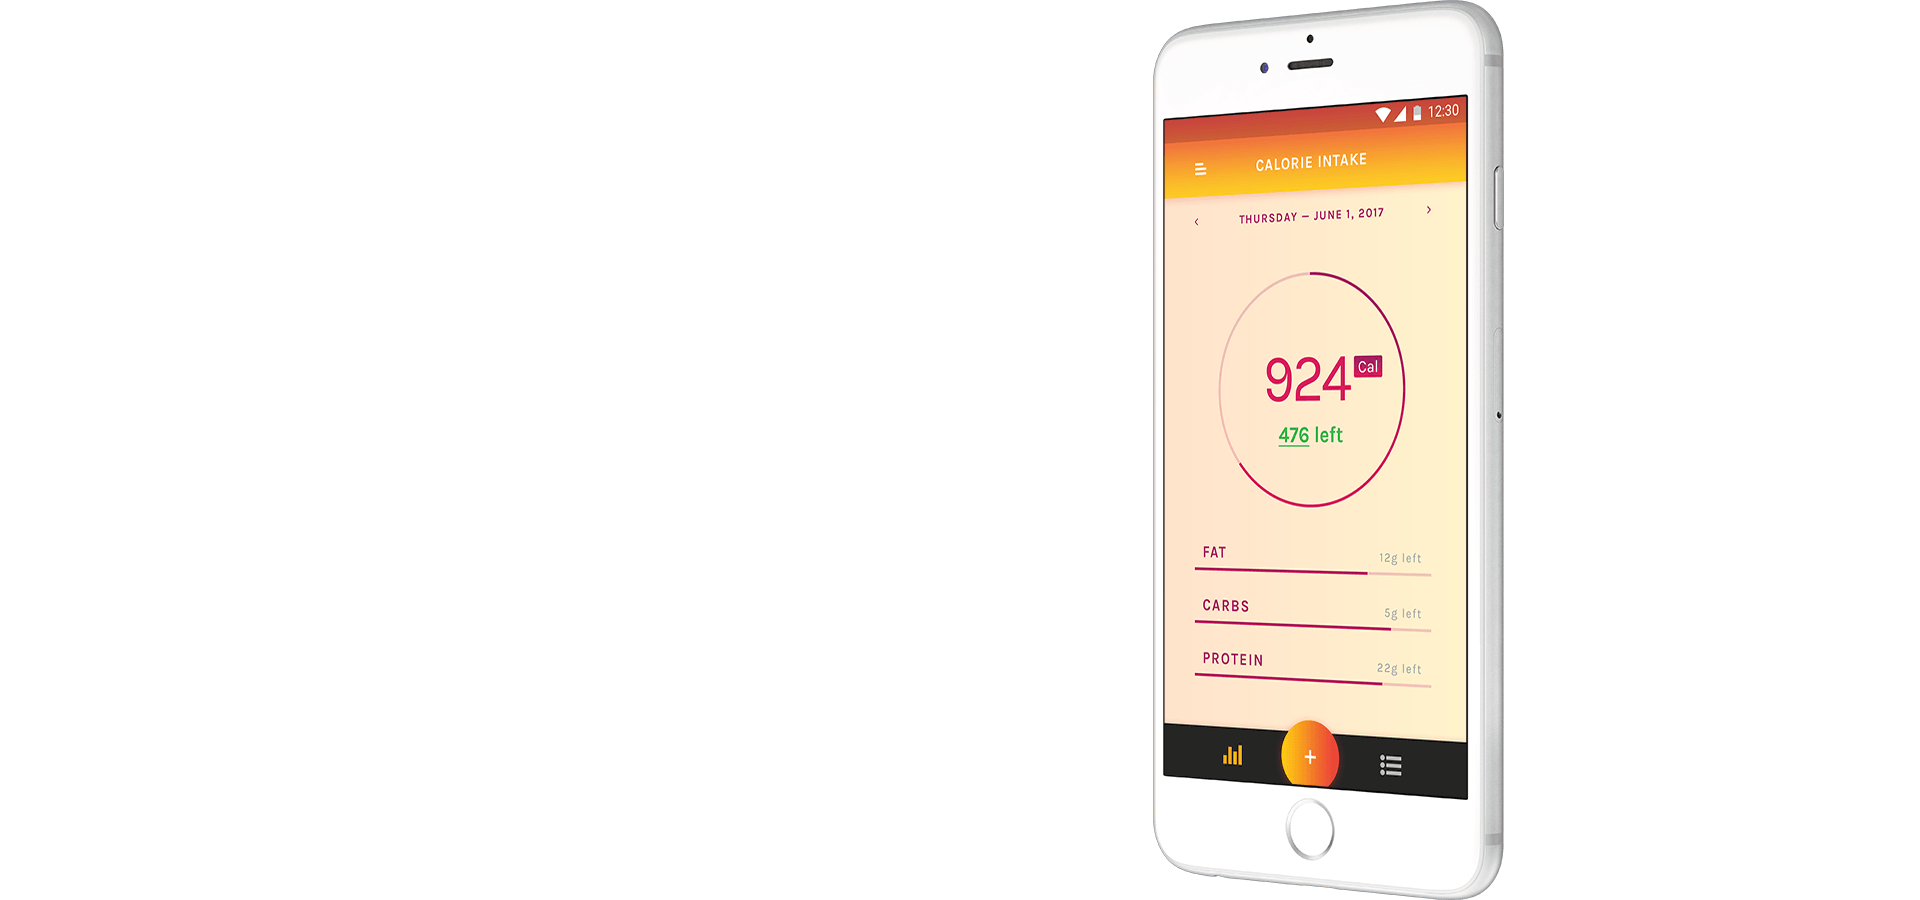
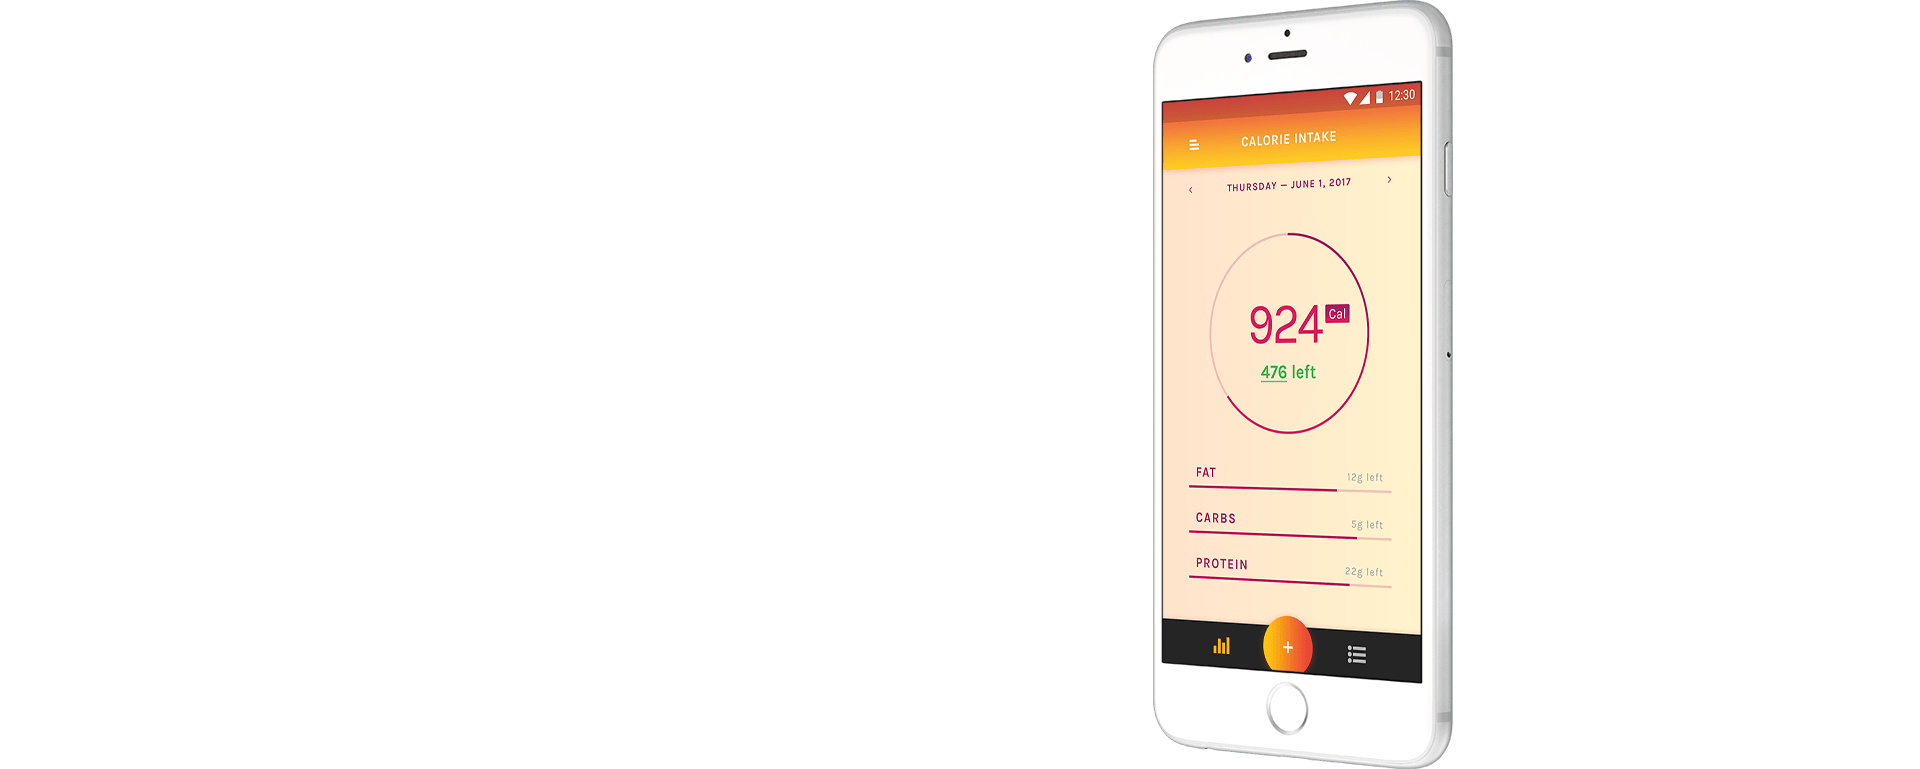
add all sections and footer

diff --git a/app/css/styles.min.css b/app/css/styles.min.css
@@ -1,2 +1,2 @@
-@import url("https://fonts.googleapis.com/icon?family=Material+Icons");@font-face{font-family:Circular;src:url(../fonts/circular/Circular-Book.eot);src:url(../fonts/circular/Circular-Book.eot?#iefix) format("embedded-opentype"),url(../fonts/circular/Circular-Book.woff) format("woff"),url(../fonts/circular/Circular-Book.ttf) format("truetype");font-style:normal;font-weight:400}@font-face{font-family:Circular;src:url(../fonts/circular/Circular-Medium.eot);src:url(../fonts/circular/Circular-Medium.eot?#iefix) format("embedded-opentype"),url(../fonts/circular/Circular-Medium.woff) format("woff"),url(../fonts/circular/Circular-Medium.ttf) format("truetype");font-style:normal;font-weight:500}@font-face{font-family:Circular;src:url(../fonts/circular/Circular-Bold.eot);src:url(../fonts/circular/Circular-Bold.eot?#iefix) format("embedded-opentype"),url(../fonts/circular/Circular-Bold.woff) format("woff"),url(../fonts/circular/Circular-Bold.ttf) format("truetype");font-style:normal;font-weight:700}@font-face{font-family:Circular;src:url(../fonts/circular/Circular-Black.eot);src:url(../fonts/circular/Circular-Black.eot?#iefix) format("embedded-opentype"),url(../fonts/circular/Circular-Black.woff) format("woff"),url(../fonts/circular/Circular-Black.ttf) format("truetype");font-style:normal;font-weight:900}@media (-webkit-min-device-pixel-ratio:1.5){.hide-on-ipad-pro{display:none!important}}html{font-family:Circular,Karla,-apple-system,BlinkMacSystemFont,Segoe UI,Roboto,Oxygen-Sans,Ubuntu,Cantarell,Helvetica Neue,sans-serif}::-moz-selection{background:#fdc812}::selection{background:#fdc812}.body__wrapper{position:static;left:0;top:0;width:100%;height:100%;overflow:hidden}.scroll__wrapper{position:relative;width:100%;height:auto}.scroll__wrapper:before{left:0}.scroll__wrapper:after,.scroll__wrapper:before{position:absolute;content:"";top:0;height:100%;width:24px;background:#fff;z-index:3}.scroll__wrapper:after{right:0}#logo-container{display:inline-block;margin-left:15px;letter-spacing:1px}.svg_container{display:inline-block;position:relative;width:60px;vertical-align:middle}nav{background:transparent;box-shadow:none}nav ul a{color:#333;text-transform:uppercase;font-weight:100;font-size:.8rem;letter-spacing:.08rem}nav ul a:hover{background-color:inherit}nav ul .material-icons{font-size:inherit;line-height:inherit;margin-left:-5px;cursor:pointer}nav .logo{background:url(../images/logo.svg) no-repeat 50%;width:15rem;height:4.5rem;margin-top:-2.25rem;position:absolute;left:0;top:50%}.side-nav{width:100%;background-color:rgba(0,0,0,.95)}.side-nav li a{color:#fff;font-size:2rem}.side-nav li>span{color:#fdc812;display:block;font-size:2.5rem;font-weight:500;height:100px;line-height:48px;padding:32px}#sidenav-overlay{display:none}.btn{color:#000;border:2px solid #000;line-height:34px;font-size:.8rem;box-shadow:none}.btn:hover{box-shadow:none;color:#fff;border:2px solid transparent;background-color:#000}.btn.btn--grad{background:#fdc812;background:linear-gradient(90deg,#fdc812,#e93f3a);border:none;line-height:38px;font-size:.9em;font-weight:500;color:#fff}.btn.btn--grad.btn--shadow{box-shadow:0 5px 30px 0 rgba(233,63,57,.5)}.btn.btn--grad:hover{box-shadow:0 2px 6px 0 rgba(233,63,57,.5)}.nav__link{color:#000;text-transform:uppercase;letter-spacing:.08em;line-height:1.5rem;font-weight:400;display:inline-block;position:relative;padding:0;margin-right:1rem;transition:all .25s cubic-bezier(.4,.25,.3,1),color 125ms cubic-bezier(.4,.25,.3,1)}.nav__link+.nav__link{margin-left:3.25rem}.nav__link:before{content:"";position:absolute;bottom:-10%;left:50%;width:0;height:2px;background-color:#fdc812;-webkit-transform:translateX(-50%);transform:translateX(-50%);transition:width 175ms cubic-bezier(.4,.25,.3,1)}.nav__link.active:before{width:20%}.nav__link:hover{color:#000}.nav__link:hover:before{width:100%}.hero__bg--fullscreen{background:#e0e4e9;background-image:linear-gradient(#e0e4e9,#fff);background-repeat:no-repeat;background-attachment:fixed;background-position:top;background-size:cover;height:calc(100vh - 110px)}.hero__bg--fullscreen .hero__container{padding-top:2em}.hero__bg--fullscreen .hero__container .btn{margin-top:1em}.hero--text{text-align:center}.hero__text--title{color:#333;font-size:1.5em}.hero__text--title strong{font-size:1.4em;font-weight:700;margin-bottom:.8rem;display:block}.hero__text--subtitle{color:#8a8e92;font-size:.9em}.hero__text--body{position:relative;padding-top:20em}.hero__image--bg{pointer-events:none;background-image:url(../images/screens/screen-bg.png);background-repeat:no-repeat;background-attachment:fixed;background-position:top;background-size:cover;height:100vh;position:absolute;width:100%;top:0;left:0;z-index:0}.hero__image--main{position:relative;max-width:100%;height:100%;z-index:2}.hero__image--main img{padding:0 5em;width:100%}.section__divider{background:linear-gradient(#171717,#000);box-shadow:0 -1px 30px 0 rgba(0,0,0,.9);position:relative;z-index:1}.features__text--container{position:relative;height:400px}.features__text--body{position:absolute;top:50%;-webkit-transform:translateY(-50%);transform:translateY(-50%)}
+@import url("https://fonts.googleapis.com/icon?family=Material+Icons");@font-face{font-family:Circular;src:url(../fonts/circular/Circular-Book.eot);src:url(../fonts/circular/Circular-Book.eot?#iefix) format("embedded-opentype"),url(../fonts/circular/Circular-Book.woff) format("woff"),url(../fonts/circular/Circular-Book.ttf) format("truetype");font-style:normal;font-weight:400}@font-face{font-family:Circular;src:url(../fonts/circular/Circular-Medium.eot);src:url(../fonts/circular/Circular-Medium.eot?#iefix) format("embedded-opentype"),url(../fonts/circular/Circular-Medium.woff) format("woff"),url(../fonts/circular/Circular-Medium.ttf) format("truetype");font-style:normal;font-weight:500}@font-face{font-family:Circular;src:url(../fonts/circular/Circular-Bold.eot);src:url(../fonts/circular/Circular-Bold.eot?#iefix) format("embedded-opentype"),url(../fonts/circular/Circular-Bold.woff) format("woff"),url(../fonts/circular/Circular-Bold.ttf) format("truetype");font-style:normal;font-weight:700}@font-face{font-family:Circular;src:url(../fonts/circular/Circular-Black.eot);src:url(../fonts/circular/Circular-Black.eot?#iefix) format("embedded-opentype"),url(../fonts/circular/Circular-Black.woff) format("woff"),url(../fonts/circular/Circular-Black.ttf) format("truetype");font-style:normal;font-weight:900}@media (-webkit-min-device-pixel-ratio:1.5){.hide-on-ipad-pro{display:none!important}}html{font-family:Circular,Karla,-apple-system,BlinkMacSystemFont,Segoe UI,Roboto,Oxygen-Sans,Ubuntu,Cantarell,Helvetica Neue,sans-serif}::-moz-selection{background:#e0e4e9}::selection{background:#e0e4e9}.body__wrapper{position:static;left:0;top:0;width:100%;height:100%;overflow:hidden}.scroll__wrapper{position:relative;width:100%;height:auto}.scroll__wrapper:before{left:0}.scroll__wrapper:after,.scroll__wrapper:before{position:absolute;content:"";top:0;height:100%;width:2vh;background:#fff;z-index:3}.scroll__wrapper:after{right:0}.logo-container{display:inline-block;margin-left:15px;letter-spacing:1px}.svg_container{display:inline-block;position:relative;width:60px;vertical-align:middle}nav{background:transparent;box-shadow:none}nav ul a{color:#333;text-transform:uppercase;font-weight:100;font-size:.8rem;letter-spacing:.08rem}nav ul a:hover{background-color:inherit}nav ul .material-icons{font-size:inherit;line-height:inherit;margin-left:-5px;cursor:pointer}nav .logo{background:url(../images/logo.svg) no-repeat 50%;width:15rem;height:4.5rem;margin-top:-2.25rem;position:absolute;left:0;top:50%}.side-nav{width:100%;background-color:rgba(0,0,0,.95)}.side-nav li a{color:#fff;font-size:2rem}.side-nav li>span{color:#fdc812;display:block;font-size:2.5rem;font-weight:500;height:100px;line-height:48px;padding:32px}#sidenav-overlay{display:none}.btn{color:#000;border:2px solid #000;line-height:34px;font-size:.8rem;box-shadow:none}.btn:hover{box-shadow:none;color:#fff;border:2px solid transparent;background-color:#000}.btn.btn--grad{background:#fdc812;background:linear-gradient(90deg,#fdc812,#e93f3a);border:none;line-height:38px;font-size:.9em;font-weight:500;color:#fff}.btn.btn--grad.btn--shadow{box-shadow:0 5px 30px 0 rgba(233,63,57,.5)}.btn.btn--grad:hover{box-shadow:0 2px 6px 0 rgba(233,63,57,.5)}.btn.btn--filled{color:#fff;border:2px solid transparent;background-color:#000}.btn.btn--filled:hover{color:#000;border:2px solid #000;background-color:transparent}.nav__link{color:#000;text-transform:uppercase;letter-spacing:.08em;line-height:1.5rem;font-weight:400;display:inline-block;position:relative;padding:0;margin-right:1rem;transition:all .25s cubic-bezier(.4,.25,.3,1),color 125ms cubic-bezier(.4,.25,.3,1)}.nav__link+.nav__link{margin-left:3.25rem}.nav__link:before{content:"";position:absolute;bottom:-10%;left:50%;width:0;height:2px;background-color:#fdc812;-webkit-transform:translateX(-50%);transform:translateX(-50%);transition:width 175ms cubic-bezier(.4,.25,.3,1)}.nav__link.active:before{width:20%}.nav__link:hover{color:#000}.nav__link:hover:before{width:100%}.hero__bg--fullscreen{background:#e0e4e9;background-image:linear-gradient(#e0e4e9,#fff);background-repeat:no-repeat;background-attachment:fixed;background-position:top;background-size:cover;height:calc(100vh - 110px)}.hero__bg--fullscreen .hero__container{padding-top:2em}.hero__bg--fullscreen .hero__container .btn{margin-top:1em}.hero--text{text-align:center}.hero__text--title{color:#333;font-size:1.5em}.hero__text--title strong{font-size:1.4em;font-weight:700;margin-bottom:.8rem;display:block}.hero__text--subtitle{color:#8a8e92;font-size:.9em}.hero__text--body{position:relative;padding-top:20em}.hero__image--bg{pointer-events:none;background-image:url(../images/screens/screen-bg.png);background-repeat:no-repeat;background-attachment:fixed;background-position:top;background-size:cover;height:100vh;position:absolute;width:100%;top:0;left:0;z-index:0}.hero__image--main{position:relative;max-width:100%;height:100%;z-index:2}.hero__image--main img{padding:0 5em;width:100%}.section__divider{background:linear-gradient(#272727,#000);position:relative;z-index:1}.section__divider .row{margin:0}.section__divider--text{text-transform:uppercase;text-align:center;color:#fff}.section__divider--text h3{font-weight:900;margin:0;line-height:30vh;white-space:nowrap}.section__divider--text h3 .small{display:inline-block;font-size:3vw;padding:.2rem 1rem;vertical-align:top}.section__divider--text h3 .big{display:inline-block;font-size:8vw;vertical-align:top}.features{height:50vh;padding:0}.valign__container{position:relative}.valign__element{position:absolute;top:50%;-webkit-transform:translateY(-50%);transform:translateY(-50%)}.parallax-container{height:50vh}.parallax-container .row .col{padding:0 2.25rem}#download{background:linear-gradient(#fdc812,#f1883b);text-align:center;position:relative;z-index:1}#download .row{margin:0;padding:1em 0}#download .row h1{font-size:2em;color:#fff;margin-bottom:.3em}#download .row h1 strong{font-weight:900}#download .row h2{margin-top:0;font-size:.8em}#download .row .btn{margin:.6em 0}.page-footer .logo{display:block;text-indent:-9999px;width:100%;height:82px;background:url(../images/logo.svg);background-size:100px 82px}.page-footer a{color:#fff}.page-footer .footer-copyright{background-color:transparent}
 /*# sourceMappingURL=styles.css.map */

diff --git a/app/index.html b/app/index.html
@@ -23,7 +23,7 @@
 
                         <!-- LOGO CONTAINER -->
                         <a href="/">
-                            <div id="logo-container">
+                            <div class="logo-container">
                                 <div class="svg_container">
                                     <div class="logo"></div>
                                 </div>
@@ -86,7 +86,7 @@
                     </div>
                 </section>
                 <div id="hero__image--bottom" class="section__divider">
-                    
+
                 </div>
                 <section id="feature--intake" class="parallax-container">
                     <div class="parallax">
@@ -95,10 +95,12 @@
                     <div class="container">
                         <div class="row">
                             <div class="col m4 s12">
-                                <div class="features__text--container">
-                                    <div class="features__text--body">
-                                        <h4>Track your intake</h4>
-                                        <p>blah blah blah</p>
+                                <div class="features valign__container">
+                                    <div class="valign__element">
+                                        <h4>Hassle-free calorie intake tracking</h4>
+                                        <p>WERK sticks to the essentials. We don't distract you from reaching your goals by
+                                            cluttering the screen.</p>
+                                        <p>Adding a new item is easy: Press the big plus button.</p>
                                     </div>
                                 </div>
                             </div>
@@ -106,26 +108,83 @@
                     </div>
                 </section>
                 <div class="section__divider">
-                        <h2>test</h2>
+                    <div class="container">
+                        <div class="row section__divider--text">
+                            <h3>
+                                <span class="small">over </span><span class="big">300,000</span><span class="small"> installs</span>
+
+                            </h3>
+                        </div>
+                    </div>
                 </div>
                 <section id="features--workout" class="parallax-container">
-                        <div class="parallax">
-                            <img src="images/screens/screen-tilted.png" alt="">
-                        </div>
-                        <div class="container">
-                            <div class="row">
-                                <div class="col m4 offset-m8 s12">
-                                    <div class="features__text--container">
-                                        <div class="features__text--body">
-                                            <h4>Track your intake</h4>
-                                            <p>blah blah blah</p>
-                                        </div>
+                    <div class="parallax">
+                        <img src="images/screens/screen-iso.png" alt="">
+                    </div>
+                    <div class="container">
+                        <div class="row">
+                            <div class="col m4 offset-m8 s12">
+                                <div class="features valign__container">
+                                    <div class="valign__element">
+                                        <h4>Work-out task list made easy</h4>
+                                        <p>WERK's interface is intuitive.</p>
+                                        <p>We want to make sure adding tasks and getting rid of them can be done as swiftly
+                                            as possible.</p>
+                                        <p>It doesn't get simpler than this.</p>
                                     </div>
                                 </div>
                             </div>
                         </div>
-                    </section>
+                    </div>
+                </section>
+                <section id="download">
+                    <div class="container">
+                        <div class="row">
+                            <div class="col m8 offset-m2 s12 l8 offset-l2 flow-text">
+                                <h1>
+                                    Download <strong>WERK</strong> today!
+                                </h1>
+                                <h2>
+                                    Available on iOS and Android Devices
+                                </h2>
+                            </div>
+                            <div class="row">
+                                <div class="col m2 offset-m4 s12 center-align">
+                                    <a class="btn btn--filled" href="#">Play Store</a>
+                                </div>
+                                <div class="col m2 s12 center-align">
+                                    <a class="btn btn--filled" href="#">App Store</a>
+                                </div>
+                            </div>
+                        </div>
+                    </div>
+                </section>
             </main>
+            <footer class="page-footer">
+                <div class="container">
+                    <div class="row">
+                        <div class="col l6 s12">
+                            <a href="/">
+                                <div class="logo"></div>
+                            </a>
+                            <p class="grey-text text-lighten-4">by Franklin Farahani</p>
+                        </div>
+                        <div class="col l4 offset-l2 s12">
+                            <ul>
+                                <li><a class="" href="#!">About Us</a></li>
+                                <li><a class="" href="#!">Careers</a></li>
+                                <li><a class="" href="#!">Help</a></li>
+                                <li><a class="" href="#!">Contact Us</a></li>
+                            </ul>
+                        </div>
+                    </div>
+                </div>
+                <div class="footer-copyright">
+                    <div class="container">
+                        &copy; 2017 Franklin Farahani
+                    </div>
+                </div>
+            </footer>
             <!--build:js js/main.min.js -->
             <script src="js/pace.min.js"></script>
             <script src="https://ajax.googleapis.com/ajax/libs/jquery/3.2.1/jquery.min.js"></script>

diff --git a/app/scss/styles.scss b/app/scss/styles.scss
@@ -9,7 +9,7 @@ html {
 }
 
 ::selection {
-  background: $yellow;
+  background: $grey--light;
 }
 
 .body__wrapper {
@@ -31,7 +31,7 @@ html {
     left: 0;
     top: 0;
     height: 100%;
-    width: 24px;
+    width: 2vh;
     background: white;
     z-index: 1000;
   }
@@ -41,13 +41,13 @@ html {
     right: 0;
     top: 0;
     height: 100%;
-    width: 24px;
+    width: 2vh;
     background: #fff;
     z-index: 1000;
   }
 }
 
-#logo-container {
+.logo-container {
   display: inline-block;
   margin-left: 15px;
   letter-spacing: 1px;
@@ -143,6 +143,16 @@ nav {
     }
     &:hover {
       box-shadow: 0 2px 6px 0 rgba(233, 63, 57, 0.50);
+    }
+  }
+  &.btn--filled {
+    color: white;
+    border: 2px solid transparent;
+    background-color: black;
+    &:hover {
+      color: black;
+      border: 2px solid black;
+      background-color: transparent;
     }
   }
 }
@@ -253,18 +263,102 @@ nav {
 
 .section__divider {
   background: linear-gradient($grey--darkest, black);
-  box-shadow: 0 -1px 30px 0 rgba(0, 0, 0, 0.90);
+  // box-shadow: 0 -1px 30px 0 rgba(0, 0, 0, 0.80);
   position: relative;
   z-index: 1;
+  .row {
+    margin: 0;
+  }
 }
 
-.features__text--container {
+.section__divider--text {
+  text-transform: uppercase;
+  text-align: center;
+  color: white;
+  h3 {
+    font-weight: 900;
+    margin: 0;
+    line-height: 30vh;
+    white-space: nowrap;
+    .small {
+      display: inline-block;
+      font-size: 3vw;
+      padding: .2rem 1rem;
+      vertical-align: top;
+    }
+    .big {
+      display: inline-block;
+      font-size: 8vw;
+      vertical-align: top;
+    }
+  }
+}
+
+.features {
+  height: 50vh;
+  padding: 0 0;
+}
+
+.valign__container {
   position: relative;
-  height: 400px;
 }
 
-.features__text--body {
+.valign__element {
   position: absolute;
   top: 50%;
   transform: translateY(-50%);
+}
+
+.parallax-container {
+  height: 50vh;
+  .row {
+    .col {
+      padding: 0 2.25rem;
+    }
+  }
+}
+
+#download {
+  background: linear-gradient($yellow, $orange);
+  // box-shadow: 0 -1px 30px 0 rgba(0, 0, 0, 0.80);
+  text-align: center;
+  position: relative;
+  z-index: 1;
+  .row {
+    margin: 0;
+    padding: 1em 0;
+    h1 {
+      font-size: 2em;
+      color: white;
+      margin-bottom: 0.3em;
+      strong {
+        font-weight: 900;
+      }
+    }
+    h2{
+      margin-top: 0;
+      font-size: .8em;
+    }
+    .btn {
+      margin: .6em 0;
+    }
+  }
+}
+
+.page-footer {
+  .logo {
+    display: block;
+    text-indent: -9999px;
+    width: 100%;
+    height: 82px;
+    background: url("../images/logo.svg");
+    background-size: 100px 82px;
+  }
+  a {
+    color: white;
+
+  }
+  .footer-copyright {
+    background-color: transparent;
+  }
 }

diff --git a/app/js/main.js b/app/js/main.js
@@ -6,6 +6,12 @@ $(document).ready(function() {
     $('.parallax').parallax();
 
     var iphoneBottom = $(".hero__bg--fullscreen").height() - $(".hero__container").height() - 100;
-    $("#hero__image--bottom").css({"min-height": $(".hero__image--main").height() - iphoneBottom });
+    if(($(".hero__image--main").height() - iphoneBottom) <= 0) {
+        $("#hero__image--bottom").css({"min-height": $(window).height() * 0.3 });
+    }
+    else {
+        $("#hero__image--bottom").css({"min-height": $(".hero__image--main").height() - iphoneBottom });
+    }
+    
     
 });

diff --git a/app/js/materialize.js b/app/js/materialize.js
@@ -2533,7 +2533,7 @@ if (Vel) {
         var windowHeight = window.innerHeight;
         var windowBottom = scrollTop + windowHeight;
         var percentScrolled = (windowBottom - top) / (container_height + windowHeight);
-        var parallax = Math.round(parallax_dist * percentScrolled);
+        var parallax = Math.round(parallax_dist * percentScrolled * 1.75);
 
         if (initial) {
           $img.css('display', 'block');

diff --git a/app/scss/_variables.scss b/app/scss/_variables.scss
@@ -13,8 +13,9 @@ $grey--light : #e0e4e9;
 $grey--med--light : #8A8E92;
 $grey--medium : #343f45;
 $grey--dark : #333;
-$grey--darkest : #171717;
+$grey--darkest : #272727;
 $yellow: #fdc812;
 $orange: #F1883B;
+$pink: #f9c0a8;
 $red: hsl(2, 80%, 57%);
 
